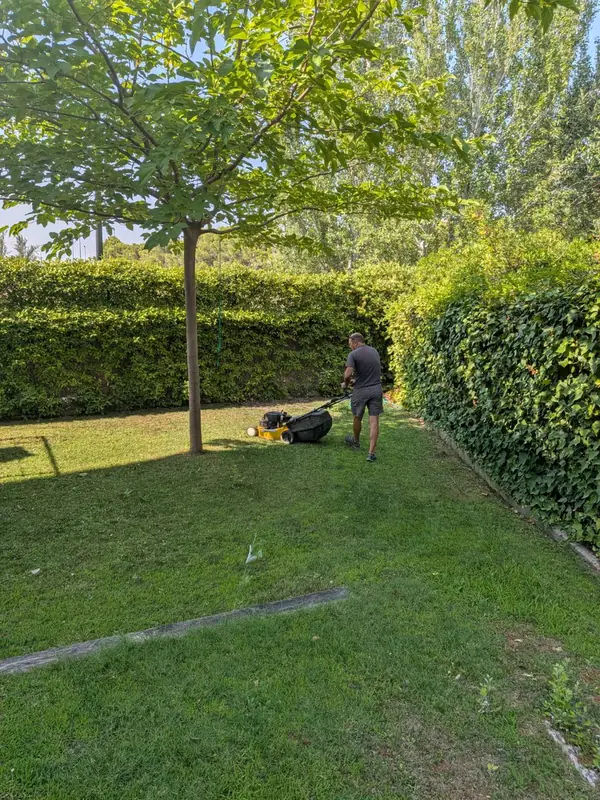
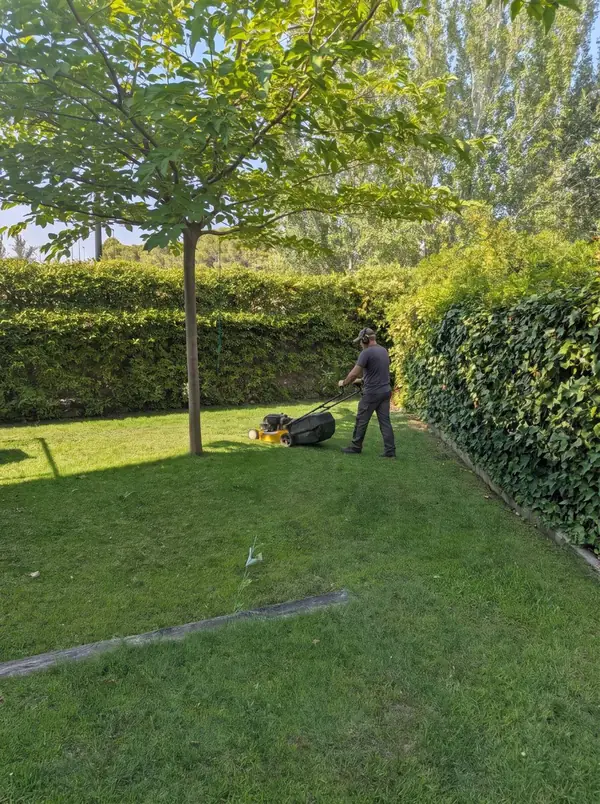
Fotos definitivas de Jorge y menos fotos por página
- Las imágenes de Canva se cambian por las que ha traído Jorge: siega del
  césped (portada), jardín junto al chalet, poda en altura con cuerdas,
  motosierra sobre el tocón y saca con restos de poda. El tractor se queda.
- Una sola foto por página de servicio, grande y arriba (dos en jardines:
  el jardín y la saca de restos). Fuera las fotos de grietas, heridas y
  restos de desbroce.
- De 10 fotos se pasa a 6.

diff --git a/servicios/mantenimiento-de-jardines.html b/servicios/mantenimiento-de-jardines.html
@@ -193,14 +193,14 @@
 
   <section class="section">
     <div class="container prosa">
-      <h2>Qué incluye</h2><ul class='lista-check'><li>Siega y perfilado del césped.</li><li>Recorte de setos y arbustos.</li><li>Poda ligera de árboles pequeños y frutales.</li><li>Revisión y ajuste del riego automático, y arreglo de goteros y aspersores.</li><li>Limpieza de hojas, malas hierbas y restos, que nos llevamos.</li></ul><h2>Visitas periódicas o trabajos sueltos</h2><p>Puede contratar visitas cada semana, cada quince días o cada mes, según el tamaño del jardín y la época del año. También hacemos trabajos sueltos: una limpieza a fondo antes del verano, poner el jardín a punto antes de una celebración o cambiar una zona de césped por plantas que necesiten menos agua.</p><h2>Plantación y reforma</h2><p>Plantamos árboles, arbustos y césped nuevo, y rehacemos zonas del jardín pensando en el clima de Zaragoza: verano seco, cierzo y heladas. Le aconsejamos especies que aguanten bien y gasten poca agua.</p>
-      <div class="galeria"><figure class="foto">
-          <a href="../img/fotos/siega-cesped-jardin.webp"><img src="../img/fotos/siega-cesped-jardin.webp" srcset="../img/fotos/siega-cesped-jardin-600.webp 600w, ../img/fotos/siega-cesped-jardin.webp 900w" sizes="(max-width: 560px) 100vw, 360px" alt="Siega del césped en un jardín con setos altos y un árbol de sombra" width="900" height="1200" loading="lazy" decoding="async"></a>
-          <figcaption>Siega del césped.</figcaption>
+      <div class="galeria galeria-2"><figure class="foto">
+          <a href="../img/fotos/jardin-chalet.webp"><img src="../img/fotos/jardin-chalet.webp" srcset="../img/fotos/jardin-chalet-600.webp 600w, ../img/fotos/jardin-chalet.webp 1200w" sizes="(max-width: 560px) 100vw, 380px" alt="Jardín de un chalet con el césped cuidado, un seto alto y un parterre de flores junto a la casa" width="1200" height="896" decoding="async"></a>
+          <figcaption>Césped cuidado y parterre de flores.</figcaption>
         </figure><figure class="foto">
-          <a href="../img/fotos/jardin-chalet.webp"><img src="../img/fotos/jardin-chalet.webp" srcset="../img/fotos/jardin-chalet-600.webp 600w, ../img/fotos/jardin-chalet.webp 1200w" sizes="(max-width: 560px) 100vw, 360px" alt="Jardín de un chalet con el césped recién segado, un seto alto recortado y cipreses al fondo" width="1200" height="927" loading="lazy" decoding="async"></a>
-          <figcaption>Césped segado y seto recortado.</figcaption>
+          <a href="../img/fotos/restos-de-poda-saca.webp"><img src="../img/fotos/restos-de-poda-saca.webp" srcset="../img/fotos/restos-de-poda-saca-600.webp 600w, ../img/fotos/restos-de-poda-saca.webp 1200w" sizes="(max-width: 560px) 100vw, 380px" alt="Saca llena de ramas y restos de poda en un jardín" width="1200" height="670" decoding="async"></a>
+          <figcaption>Nos llevamos los restos.</figcaption>
         </figure></div>
+      <h2>Qué incluye</h2><ul class='lista-check'><li>Siega y perfilado del césped.</li><li>Recorte de setos y arbustos.</li><li>Poda ligera de árboles pequeños y frutales.</li><li>Revisión y ajuste del riego automático, y arreglo de goteros y aspersores.</li><li>Limpieza de hojas, malas hierbas y restos, que nos llevamos.</li></ul><h2>Visitas periódicas o trabajos sueltos</h2><p>Puede contratar visitas cada semana, cada quince días o cada mes, según el tamaño del jardín y la época del año. También hacemos trabajos sueltos: una limpieza a fondo antes del verano, poner el jardín a punto antes de una celebración o cambiar una zona de césped por plantas que necesiten menos agua.</p><h2>Plantación y reforma</h2><p>Plantamos árboles, arbustos y césped nuevo, y rehacemos zonas del jardín pensando en el clima de Zaragoza: verano seco, cierzo y heladas. Le aconsejamos especies que aguanten bien y gasten poca agua.</p>
       <h2>Preguntas frecuentes</h2>
       <div class="faq"><details><summary>¿Cada cuánto conviene la visita?</summary><p>En primavera y verano el césped crece rápido y suele hacer falta una visita cada una o dos semanas. En otoño e invierno basta con una al mes.</p></details><details><summary>¿Se llevan los restos?</summary><p>Sí. Al terminar recogemos hojas, ramas y césped cortado y nos los llevamos.</p></details><details><summary>¿Trabajan para comunidades de vecinos?</summary><p>Sí, tanto para chalets particulares como para zonas verdes de comunidades y urbanizaciones.</p></details></div>
       <h2>Otros servicios</h2>

diff --git a/servicios/poda-de-arboles.html b/servicios/poda-de-arboles.html
@@ -193,17 +193,11 @@
 
   <section class="section">
     <div class="container prosa">
-      <h2>Tipos de poda</h2><ul class='lista-check'><li><strong>De formación</strong>, en árboles jóvenes, para que crezcan con una buena estructura.</li><li><strong>De limpieza</strong>: ramas secas, rotas o enfermas.</li><li><strong>De seguridad</strong>: ramas que tocan el tejado, la fachada o los cables, o que pueden caer.</li><li><strong>En altura</strong>, con técnica de trepa cuando no llega una plataforma.</li></ul><h2>Antes de podar, miramos el árbol</h2><p>Muchos problemas no se ven a simple vista: grietas en la base, pudriciones dentro del tronco o heridas que sueltan resina. Revisamos el árbol y le decimos si basta con una poda o si conviene hacer algo más. Podar de más debilita el árbol, así que cortamos solo lo necesario.</p><h2>Pinos y árboles protegidos</h2><p>En algunos municipios hace falta permiso para podar o talar ciertos árboles. Si es su caso, lo tramitamos nosotros.</p>
-      <div class="galeria"><figure class="foto">
-          <a href="../img/fotos/corte-de-poda.webp"><img src="../img/fotos/corte-de-poda.webp" srcset="../img/fotos/corte-de-poda-600.webp 600w, ../img/fotos/corte-de-poda.webp 1200w" sizes="(max-width: 560px) 100vw, 360px" alt="Corte de poda limpio en un plátano de sombra" width="1200" height="849" loading="lazy" decoding="async"></a>
-          <figcaption>Corte de poda limpio.</figcaption>
-        </figure><figure class="foto">
-          <a href="../img/fotos/arbol-exudado.webp"><img src="../img/fotos/arbol-exudado.webp" srcset="../img/fotos/arbol-exudado-600.webp 600w, ../img/fotos/arbol-exudado.webp 1097w" sizes="(max-width: 560px) 100vw, 360px" alt="Tronco con una herida que suelta resina" width="1097" height="1200" loading="lazy" decoding="async"></a>
-          <figcaption>Herida en el tronco que suelta resina.</figcaption>
-        </figure><figure class="foto">
-          <a href="../img/fotos/arbol-grieta-base.webp"><img src="../img/fotos/arbol-grieta-base.webp" srcset="../img/fotos/arbol-grieta-base-600.webp 600w, ../img/fotos/arbol-grieta-base.webp 1200w" sizes="(max-width: 560px) 100vw, 360px" alt="Grieta en la base del tronco de un árbol sobre césped" width="1200" height="675" loading="lazy" decoding="async"></a>
-          <figcaption>Grieta en la base del tronco.</figcaption>
+      <div class="galeria galeria-1"><figure class="foto">
+          <a href="../img/fotos/poda-en-altura-cuerdas.webp"><img src="../img/fotos/poda-en-altura-cuerdas.webp" srcset="../img/fotos/poda-en-altura-cuerdas-600.webp 600w, ../img/fotos/poda-en-altura-cuerdas.webp 1200w" sizes="(max-width: 800px) 100vw, 760px" alt="Rama con cortes de poda limpios, cuerdas de trepa y una motosierra de poda colgada" width="1200" height="670" decoding="async"></a>
+          <figcaption>Poda en altura, con cuerdas.</figcaption>
         </figure></div>
+      <h2>Tipos de poda</h2><ul class='lista-check'><li><strong>De formación</strong>, en árboles jóvenes, para que crezcan con una buena estructura.</li><li><strong>De limpieza</strong>: ramas secas, rotas o enfermas.</li><li><strong>De seguridad</strong>: ramas que tocan el tejado, la fachada o los cables, o que pueden caer.</li><li><strong>En altura</strong>, con técnica de trepa cuando no llega una plataforma.</li></ul><h2>Antes de podar, miramos el árbol</h2><p>Muchos problemas no se ven a simple vista: grietas en la base, pudriciones dentro del tronco o heridas que sueltan resina. Revisamos el árbol y le decimos si basta con una poda o si conviene hacer algo más. Podar de más debilita el árbol, así que cortamos solo lo necesario.</p><h2>Pinos y árboles protegidos</h2><p>En algunos municipios hace falta permiso para podar o talar ciertos árboles. Si es su caso, lo tramitamos nosotros.</p>
       <h2>Preguntas frecuentes</h2>
       <div class="faq"><details><summary>¿Cuándo es mejor podar?</summary><p>La mayoría de árboles se podan mejor en invierno, con la savia parada. Las ramas peligrosas o secas se pueden quitar en cualquier época.</p></details><details><summary>¿Un árbol inclinado es peligroso?</summary><p>No siempre. Depende de si la inclinación es antigua, de cómo está la base y de si el suelo se ha levantado. Lo mejor es que lo veamos.</p></details><details><summary>¿Se llevan las ramas?</summary><p>Sí. Troceamos y retiramos todos los restos, o los dejamos triturados si los quiere para el jardín.</p></details></div>
       <h2>Otros servicios</h2>

diff --git a/servicios/desbroce-y-prevencion-de-incendios.html b/servicios/desbroce-y-prevencion-de-incendios.html
@@ -193,17 +193,11 @@
 
   <section class="section">
     <div class="container prosa">
-      <h2>Por qué desbrozar</h2><p>La hierba seca y el matorral arden con mucha facilidad en verano. Muchos ayuntamientos obligan a tener las parcelas limpias y pueden multar si no lo están. En las urbanizaciones junto al monte, una franja limpia alrededor de las casas es la mejor protección frente a un incendio.</p><h2>Qué hacemos</h2><ul class='lista-check'><li>Desbroce de hierba y matorral, a mano o con la máquina que pida el terreno.</li><li>Poda de las ramas bajas de los árboles, para que el fuego no suba a las copas.</li><li>Franjas de protección alrededor de casas y vallas.</li><li>Retirada o triturado de todos los restos.</li></ul><h2>Cuándo hacerlo</h2><p>Lo mejor es desbrozar a finales de primavera, cuando la hierba ya ha crecido y antes de que se seque. En fincas grandes conviene repasar a finales de verano.</p>
-      <div class="galeria"><figure class="foto">
-          <a href="../img/fotos/desbroce-tractor.webp"><img src="../img/fotos/desbroce-tractor.webp" srcset="../img/fotos/desbroce-tractor-600.webp 600w, ../img/fotos/desbroce-tractor.webp 1200w" sizes="(max-width: 560px) 100vw, 360px" alt="Tractor con desbrozadora limpiando el matorral junto a unas encinas" width="1200" height="674" loading="lazy" decoding="async"></a>
+      <div class="galeria galeria-1"><figure class="foto">
+          <a href="../img/fotos/desbroce-tractor.webp"><img src="../img/fotos/desbroce-tractor.webp" srcset="../img/fotos/desbroce-tractor-600.webp 600w, ../img/fotos/desbroce-tractor.webp 1200w" sizes="(max-width: 800px) 100vw, 760px" alt="Tractor con desbrozadora limpiando el matorral junto a unas encinas" width="1200" height="674" decoding="async"></a>
           <figcaption>Desbroce con tractor y desbrozadora.</figcaption>
-        </figure><figure class="foto">
-          <a href="../img/fotos/desbroce-pinar.webp"><img src="../img/fotos/desbroce-pinar.webp" srcset="../img/fotos/desbroce-pinar-600.webp 600w, ../img/fotos/desbroce-pinar.webp 1200w" sizes="(max-width: 560px) 100vw, 360px" alt="Pinar con el matorral desbrozado y los restos amontonados" width="1200" height="674" loading="lazy" decoding="async"></a>
-          <figcaption>Pinar con el matorral desbrozado.</figcaption>
-        </figure><figure class="foto">
-          <a href="../img/fotos/desbroce-restos.webp"><img src="../img/fotos/desbroce-restos.webp" srcset="../img/fotos/desbroce-restos-600.webp 600w, ../img/fotos/desbroce-restos.webp 1200w" sizes="(max-width: 560px) 100vw, 360px" alt="Terreno desbrozado con restos de ramas" width="1200" height="674" loading="lazy" decoding="async"></a>
-          <figcaption>Zona desbrozada, antes de retirar los restos.</figcaption>
         </figure></div>
+      <h2>Por qué desbrozar</h2><p>La hierba seca y el matorral arden con mucha facilidad en verano. Muchos ayuntamientos obligan a tener las parcelas limpias y pueden multar si no lo están. En las urbanizaciones junto al monte, una franja limpia alrededor de las casas es la mejor protección frente a un incendio.</p><h2>Qué hacemos</h2><ul class='lista-check'><li>Desbroce de hierba y matorral, a mano o con la máquina que pida el terreno.</li><li>Poda de las ramas bajas de los árboles, para que el fuego no suba a las copas.</li><li>Franjas de protección alrededor de casas y vallas.</li><li>Retirada o triturado de todos los restos.</li></ul><h2>Cuándo hacerlo</h2><p>Lo mejor es desbrozar a finales de primavera, cuando la hierba ya ha crecido y antes de que se seque. En fincas grandes conviene repasar a finales de verano.</p>
       <h2>Preguntas frecuentes</h2>
       <div class="faq"><details><summary>¿Me pueden multar si no desbrozo?</summary><p>Sí. Muchas ordenanzas municipales obligan a mantener limpios los solares y parcelas, sobre todo en verano.</p></details><details><summary>¿Queman los restos?</summary><p>No. Los retiramos o los trituramos y los dejamos en el terreno, que protege el suelo.</p></details><details><summary>¿Trabajan en fincas grandes?</summary><p>Sí. Díganos la superficie y le preparamos el presupuesto; en los bordes y junto a los árboles siempre se repasa a mano.</p></details></div>
       <h2>Otros servicios</h2>

diff --git a/index.html b/index.html
@@ -252,7 +252,7 @@
           <a class="btn btn-ghost" href="tel:+34624757421">Llamar: 624 75 74 21</a>
         </div>
       </div>
-      <img class="hero-image" src="img/fotos/siega-cesped-jardin.webp" srcset="img/fotos/siega-cesped-jardin-600.webp 600w, img/fotos/siega-cesped-jardin.webp 900w" sizes="(max-width: 900px) 100vw, 480px" alt="Siega del césped en un jardín con setos altos y un árbol de sombra" width="900" height="1200" fetchpriority="high">
+      <img class="hero-image" src="img/fotos/siega-cesped-jardin.webp" srcset="img/fotos/siega-cesped-jardin-600.webp 600w, img/fotos/siega-cesped-jardin.webp 896w" sizes="(max-width: 900px) 100vw, 480px" alt="Jardinero segando el césped de un jardín con setos altos y un árbol de sombra" width="896" height="1200" fetchpriority="high">
     </div>
   </section>
 
@@ -269,7 +269,7 @@
       <p class="section-sub">De forma periódica o para un trabajo puntual.</p>
       <div class="cards cards-4">
           <a class="card card-link" href="servicios/mantenimiento-de-jardines.html">
-            <img class="card-img" src="img/fotos/jardin-chalet.webp" srcset="img/fotos/jardin-chalet-600.webp 600w, img/fotos/jardin-chalet.webp 1200w" sizes="(max-width: 560px) 100vw, (max-width: 980px) 50vw, 280px" alt="Jardín de un chalet con el césped recién segado, un seto alto recortado y cipreses al fondo" width="1200" height="927" loading="lazy" decoding="async">
+            <img class="card-img" src="img/fotos/jardin-chalet.webp" srcset="img/fotos/jardin-chalet-600.webp 600w, img/fotos/jardin-chalet.webp 1200w" sizes="(max-width: 560px) 100vw, (max-width: 980px) 50vw, 280px" alt="Jardín de un chalet con el césped cuidado, un seto alto y un parterre de flores junto a la casa" width="1200" height="896" loading="lazy" decoding="async">
             <div class="card-body">
               <h3>Mantenimiento de jardines</h3>
               <p>Siega, setos, riego y limpieza con visitas programadas. También plantación y reforma de zonas del jardín.</p>
@@ -277,7 +277,7 @@
             </div>
           </a>
           <a class="card card-link" href="servicios/poda-de-arboles.html">
-            <img class="card-img" src="img/fotos/corte-de-poda.webp" srcset="img/fotos/corte-de-poda-600.webp 600w, img/fotos/corte-de-poda.webp 1200w" sizes="(max-width: 560px) 100vw, (max-width: 980px) 50vw, 280px" alt="Corte de poda limpio en un plátano de sombra" width="1200" height="849" loading="lazy" decoding="async">
+            <img class="card-img" src="img/fotos/poda-en-altura-cuerdas.webp" srcset="img/fotos/poda-en-altura-cuerdas-600.webp 600w, img/fotos/poda-en-altura-cuerdas.webp 1200w" sizes="(max-width: 560px) 100vw, (max-width: 980px) 50vw, 280px" alt="Rama con cortes de poda limpios, cuerdas de trepa y una motosierra de poda colgada" width="1200" height="670" loading="lazy" decoding="async">
             <div class="card-body">
               <h3>Poda y arboricultura</h3>
               <p>Poda de formación, de limpieza y en altura. Revisamos si el árbol tiene grietas, pudriciones o ramas con riesgo.</p>
@@ -285,7 +285,7 @@
             </div>
           </a>
           <a class="card card-link" href="servicios/tala-y-destoconado.html">
-            <img class="card-img" src="img/fotos/motosierra-corte-tronco.webp" srcset="img/fotos/motosierra-corte-tronco-600.webp 600w, img/fotos/motosierra-corte-tronco.webp 1200w" sizes="(max-width: 560px) 100vw, (max-width: 980px) 50vw, 280px" alt="Motosierra cortando el tronco de un árbol" width="1200" height="927" loading="lazy" decoding="async">
+            <img class="card-img" src="img/fotos/tala-tocon-motosierra.webp" srcset="img/fotos/tala-tocon-motosierra-600.webp 600w, img/fotos/tala-tocon-motosierra.webp 1200w" sizes="(max-width: 560px) 100vw, (max-width: 980px) 50vw, 280px" alt="Motosierra apoyada en el tocón de un árbol recién talado en un jardín" width="1200" height="670" loading="lazy" decoding="async">
             <div class="card-body">
               <h3>Tala y destoconado</h3>
               <p>Tala controlada de árboles junto a casas, muros o cables, y retirada del tocón para recuperar el espacio.</p>

diff --git a/servicios/tala-y-destoconado.html b/servicios/tala-y-destoconado.html
@@ -193,14 +193,11 @@
 
   <section class="section">
     <div class="container prosa">
-      <h2>Tala controlada</h2><p>Cuando no hay espacio para que el árbol caiga entero, lo desmontamos por trozos desde arriba y los bajamos con cuerdas. Así no se daña nada alrededor. Si hace falta cortar la calle o pedir permiso al ayuntamiento, nos ocupamos nosotros.</p><h2>Destoconado</h2><p>El tocón que queda después de una tala estorba, vuelve a echar brotes y puede levantar el suelo. Lo quitamos con una destoconadora, que lo tritura por debajo del nivel del suelo, y dejamos el hueco listo para plantar, poner césped o pavimentar.</p><h2>Qué nos llevamos</h2><p>Tronco, ramas, serrín y restos del tocón. Si quiere quedarse la leña, se la dejamos cortada.</p>
-      <div class="galeria"><figure class="foto">
-          <a href="../img/fotos/motosierra-corte-tronco.webp"><img src="../img/fotos/motosierra-corte-tronco.webp" srcset="../img/fotos/motosierra-corte-tronco-600.webp 600w, ../img/fotos/motosierra-corte-tronco.webp 1200w" sizes="(max-width: 560px) 100vw, 360px" alt="Motosierra cortando el tronco de un árbol" width="1200" height="927" loading="lazy" decoding="async"></a>
-          <figcaption>Corte del tronco con motosierra.</figcaption>
-        </figure><figure class="foto">
-          <a href="../img/fotos/tocon-recien-cortado.webp"><img src="../img/fotos/tocon-recien-cortado.webp" srcset="../img/fotos/tocon-recien-cortado-600.webp 600w, ../img/fotos/tocon-recien-cortado.webp 1200w" sizes="(max-width: 560px) 100vw, 360px" alt="Tocón de un pino recién talado, con el corte limpio y serrín alrededor" width="1200" height="849" loading="lazy" decoding="async"></a>
-          <figcaption>Tocón recién cortado, antes de destoconar.</figcaption>
+      <div class="galeria galeria-1"><figure class="foto">
+          <a href="../img/fotos/tala-tocon-motosierra.webp"><img src="../img/fotos/tala-tocon-motosierra.webp" srcset="../img/fotos/tala-tocon-motosierra-600.webp 600w, ../img/fotos/tala-tocon-motosierra.webp 1200w" sizes="(max-width: 800px) 100vw, 760px" alt="Motosierra apoyada en el tocón de un árbol recién talado en un jardín" width="1200" height="670" decoding="async"></a>
+          <figcaption>Árbol talado: queda el tocón, que también quitamos.</figcaption>
         </figure></div>
+      <h2>Tala controlada</h2><p>Cuando no hay espacio para que el árbol caiga entero, lo desmontamos por trozos desde arriba y los bajamos con cuerdas. Así no se daña nada alrededor. Si hace falta cortar la calle o pedir permiso al ayuntamiento, nos ocupamos nosotros.</p><h2>Destoconado</h2><p>El tocón que queda después de una tala estorba, vuelve a echar brotes y puede levantar el suelo. Lo quitamos con una destoconadora, que lo tritura por debajo del nivel del suelo, y dejamos el hueco listo para plantar, poner césped o pavimentar.</p><h2>Qué nos llevamos</h2><p>Tronco, ramas, serrín y restos del tocón. Si quiere quedarse la leña, se la dejamos cortada.</p>
       <h2>Preguntas frecuentes</h2>
       <div class="faq"><details><summary>¿Necesito permiso para talar un árbol?</summary><p>Depende del municipio, de la especie y de si el terreno es urbano o rústico. Se lo decimos al ver el árbol y, si hace falta, lo pedimos nosotros.</p></details><details><summary>¿Qué pasa si no quito el tocón?</summary><p>Muchos árboles vuelven a brotar desde el tocón y las raíces, y con los años se pudre y atrae hongos e insectos.</p></details><details><summary>¿Se puede plantar en el mismo sitio?</summary><p>Sí. Después del destoconado rellenamos el hueco con tierra y ya se puede plantar.</p></details></div>
       <h2>Otros servicios</h2>

diff --git a/css/styles.css b/css/styles.css
@@ -433,6 +433,11 @@ a { color: var(--verde-700); }
 .prosa ul:not(.lista-check) { color: var(--texto-suave); padding-left: 1.2em; }
 .prosa .lista-check { margin-bottom: 1em; }
 .galeria { display: grid; grid-template-columns: repeat(3, 1fr); gap: 14px; margin: 32px 0 8px; }
+.prosa > .galeria:first-child { margin-top: 0; }
+.galeria-1 { grid-template-columns: 1fr; }
+.galeria-1 .foto img { height: auto; max-height: 430px; }
+.galeria-2 { grid-template-columns: repeat(2, 1fr); }
+.galeria-2 .foto img { height: 250px; }
 .foto { margin: 0; }
 .foto a { display: block; }
 .foto img { width: 100%; height: 220px; object-fit: cover; border-radius: 10px; display: block; }

diff --git a/herramientas/generar_paginas.py b/herramientas/generar_paginas.py
@@ -143,20 +143,26 @@ def pie(raiz):
 </html>
 """
 
-def imagen(raiz, nombre, alt, tamanos, clase="", primera=False):
+def imagen(raiz, nombre, alt, tamanos, clase="", primera=False, arriba=False):
     """Foto en dos tamaños (600 px y la grande), para que el móvil baje la pequeña."""
     ancho, alto = MEDIDAS[nombre]
     base = f"{raiz}img/fotos/{nombre}"
-    carga = ' fetchpriority="high"' if primera else ' loading="lazy" decoding="async"'
+    # primera: la foto principal de la portada. arriba: fotos que se ven casi al abrir la página (no se retrasan).
+    carga = ' fetchpriority="high"' if primera else (' decoding="async"' if arriba else ' loading="lazy" decoding="async"')
     return (f'<img{f" class={chr(34)}{clase}{chr(34)}" if clase else ""} src="{base}.webp" '
             f'srcset="{base}-600.webp 600w, {base}.webp {ancho}w" sizes="{tamanos}" '
             f'alt="{html.escape(alt)}" width="{ancho}" height="{alto}"{carga}>')
 
-def foto(raiz, nombre, alt, pie_foto):
-    return f"""<figure class="foto">
-          <a href="{raiz}img/fotos/{nombre}.webp">{imagen(raiz, nombre, alt, "(max-width: 560px) 100vw, 360px")}</a>
+def galeria(raiz, fotos):
+    """Fotos de una página de servicio, como (nombre, texto alternativo, pie). Pocas: una, o dos como mucho."""
+    if not fotos:
+        return ""
+    tamanos = "(max-width: 800px) 100vw, 760px" if len(fotos) == 1 else "(max-width: 560px) 100vw, 380px"
+    figuras = "".join(f"""<figure class="foto">
+          <a href="{raiz}img/fotos/{n}.webp">{imagen(raiz, n, alt, tamanos, arriba=True)}</a>
           <figcaption>{pie_foto}</figcaption>
-        </figure>"""
+        </figure>""" for n, alt, pie_foto in fotos)
+    return f'<div class="galeria galeria-{len(fotos)}">{figuras}</div>'
 
 # ---------- Datos para buscadores y asistentes de IA (schema.org) ----------
 NEGOCIO_ID = DOM + "/#negocio"
@@ -230,7 +236,7 @@ portada = cabecera("Jardinería, poda y tala en Zaragoza | " + MARCA,
           <a class="btn btn-ghost" href="tel:{TEL}">Llamar: {TEL_TXT}</a>
         </div>
       </div>
-      {imagen("", "siega-cesped-jardin", "Siega del césped en un jardín con setos altos y un árbol de sombra", "(max-width: 900px) 100vw, 480px", "hero-image", primera=True)}
+      {imagen("", "siega-cesped-jardin", "Jardinero segando el césped de un jardín con setos altos y un árbol de sombra", "(max-width: 900px) 100vw, 480px", "hero-image", primera=True)}
     </div>
   </section>
 
@@ -246,9 +252,9 @@ portada = cabecera("Jardinería, poda y tala en Zaragoza | " + MARCA,
       <h2>Servicios</h2>
       <p class="section-sub">De forma periódica o para un trabajo puntual.</p>
       <div class="cards cards-4">
-          {tarjeta(SERVICIOS[0][0], SERVICIOS[0][1], "Siega, setos, riego y limpieza con visitas programadas. También plantación y reforma de zonas del jardín.", "jardin-chalet", "Jardín de un chalet con el césped recién segado, un seto alto recortado y cipreses al fondo")}
-          {tarjeta(SERVICIOS[1][0], SERVICIOS[1][1], "Poda de formación, de limpieza y en altura. Revisamos si el árbol tiene grietas, pudriciones o ramas con riesgo.", "corte-de-poda", "Corte de poda limpio en un plátano de sombra")}
-          {tarjeta(SERVICIOS[2][0], SERVICIOS[2][1], "Tala controlada de árboles junto a casas, muros o cables, y retirada del tocón para recuperar el espacio.", "motosierra-corte-tronco", "Motosierra cortando el tronco de un árbol")}
+          {tarjeta(SERVICIOS[0][0], SERVICIOS[0][1], "Siega, setos, riego y limpieza con visitas programadas. También plantación y reforma de zonas del jardín.", "jardin-chalet", "Jardín de un chalet con el césped cuidado, un seto alto y un parterre de flores junto a la casa")}
+          {tarjeta(SERVICIOS[1][0], SERVICIOS[1][1], "Poda de formación, de limpieza y en altura. Revisamos si el árbol tiene grietas, pudriciones o ramas con riesgo.", "poda-en-altura-cuerdas", "Rama con cortes de poda limpios, cuerdas de trepa y una motosierra de poda colgada")}
+          {tarjeta(SERVICIOS[2][0], SERVICIOS[2][1], "Tala controlada de árboles junto a casas, muros o cables, y retirada del tocón para recuperar el espacio.", "tala-tocon-motosierra", "Motosierra apoyada en el tocón de un árbol recién talado en un jardín")}
           {tarjeta(SERVICIOS[3][0], SERVICIOS[3][1], "Desbroce de parcelas y fincas para cumplir la normativa y reducir el riesgo de incendio.", "desbroce-tractor", "Tractor con desbrozadora limpiando el matorral junto a unas encinas")}
       </div>
     </div>
@@ -312,7 +318,7 @@ portada = cabecera("Jardinería, poda y tala en Zaragoza | " + MARCA,
 (OUT / "index.html").write_text(portada, encoding="utf-8")
 
 # ---------- Páginas de servicio ----------
-def pagina_servicio(slug, titulo_seo, desc, h1, intro, bloques, fotos_html, faq):
+def pagina_servicio(slug, titulo_seo, desc, h1, intro, bloques, fotos, faq):
     raiz = "../"
     url = f"{DOM}/servicios/{slug}.html"
     nombre = dict(SERVICIOS)[slug]
@@ -340,8 +346,8 @@ def pagina_servicio(slug, titulo_seo, desc, h1, intro, bloques, fotos_html, faq)
 
   <section class="section">
     <div class="container prosa">
+      {galeria(raiz, fotos)}
       {cuerpo}
-      {('<div class="galeria">' + fotos_html + '</div>') if fotos_html else ''}
       <h2>Preguntas frecuentes</h2>
       <div class="faq">{faq_html(faq)}</div>
       <h2>Otros servicios</h2>
@@ -361,8 +367,8 @@ paginas = {
     [("Qué incluye", "<ul class='lista-check'><li>Siega y perfilado del césped.</li><li>Recorte de setos y arbustos.</li><li>Poda ligera de árboles pequeños y frutales.</li><li>Revisión y ajuste del riego automático, y arreglo de goteros y aspersores.</li><li>Limpieza de hojas, malas hierbas y restos, que nos llevamos.</li></ul>"),
      ("Visitas periódicas o trabajos sueltos", "<p>Puede contratar visitas cada semana, cada quince días o cada mes, según el tamaño del jardín y la época del año. También hacemos trabajos sueltos: una limpieza a fondo antes del verano, poner el jardín a punto antes de una celebración o cambiar una zona de césped por plantas que necesiten menos agua.</p>"),
      ("Plantación y reforma", "<p>Plantamos árboles, arbustos y césped nuevo, y rehacemos zonas del jardín pensando en el clima de Zaragoza: verano seco, cierzo y heladas. Le aconsejamos especies que aguanten bien y gasten poca agua.</p>")],
-    foto(r, "siega-cesped-jardin", "Siega del césped en un jardín con setos altos y un árbol de sombra", "Siega del césped.") +
-    foto(r, "jardin-chalet", "Jardín de un chalet con el césped recién segado, un seto alto recortado y cipreses al fondo", "Césped segado y seto recortado."),
+    [("jardin-chalet", "Jardín de un chalet con el césped cuidado, un seto alto y un parterre de flores junto a la casa", "Césped cuidado y parterre de flores."),
+     ("restos-de-poda-saca", "Saca llena de ramas y restos de poda en un jardín", "Nos llevamos los restos.")],
     [("¿Cada cuánto conviene la visita?", "En primavera y verano el césped crece rápido y suele hacer falta una visita cada una o dos semanas. En otoño e invierno basta con una al mes."),
      ("¿Se llevan los restos?", "Sí. Al terminar recogemos hojas, ramas y césped cortado y nos los llevamos."),
      ("¿Trabajan para comunidades de vecinos?", "Sí, tanto para chalets particulares como para zonas verdes de comunidades y urbanizaciones.")]),
@@ -374,9 +380,7 @@ paginas = {
     [("Tipos de poda", "<ul class='lista-check'><li><strong>De formación</strong>, en árboles jóvenes, para que crezcan con una buena estructura.</li><li><strong>De limpieza</strong>: ramas secas, rotas o enfermas.</li><li><strong>De seguridad</strong>: ramas que tocan el tejado, la fachada o los cables, o que pueden caer.</li><li><strong>En altura</strong>, con técnica de trepa cuando no llega una plataforma.</li></ul>"),
      ("Antes de podar, miramos el árbol", "<p>Muchos problemas no se ven a simple vista: grietas en la base, pudriciones dentro del tronco o heridas que sueltan resina. Revisamos el árbol y le decimos si basta con una poda o si conviene hacer algo más. Podar de más debilita el árbol, así que cortamos solo lo necesario.</p>"),
      ("Pinos y árboles protegidos", "<p>En algunos municipios hace falta permiso para podar o talar ciertos árboles. Si es su caso, lo tramitamos nosotros.</p>")],
-    foto(r, "corte-de-poda", "Corte de poda limpio en un plátano de sombra", "Corte de poda limpio.") +
-    foto(r, "arbol-exudado", "Tronco con una herida que suelta resina", "Herida en el tronco que suelta resina.") +
-    foto(r, "arbol-grieta-base", "Grieta en la base del tronco de un árbol sobre césped", "Grieta en la base del tronco."),
+    [("poda-en-altura-cuerdas", "Rama con cortes de poda limpios, cuerdas de trepa y una motosierra de poda colgada", "Poda en altura, con cuerdas.")],
     [("¿Cuándo es mejor podar?", "La mayoría de árboles se podan mejor en invierno, con la savia parada. Las ramas peligrosas o secas se pueden quitar en cualquier época."),
      ("¿Un árbol inclinado es peligroso?", "No siempre. Depende de si la inclinación es antigua, de cómo está la base y de si el suelo se ha levantado. Lo mejor es que lo veamos."),
      ("¿Se llevan las ramas?", "Sí. Troceamos y retiramos todos los restos, o los dejamos triturados si los quiere para el jardín.")]),
@@ -388,8 +392,7 @@ paginas = {
     [("Tala controlada", "<p>Cuando no hay espacio para que el árbol caiga entero, lo desmontamos por trozos desde arriba y los bajamos con cuerdas. Así no se daña nada alrededor. Si hace falta cortar la calle o pedir permiso al ayuntamiento, nos ocupamos nosotros.</p>"),
      ("Destoconado", "<p>El tocón que queda después de una tala estorba, vuelve a echar brotes y puede levantar el suelo. Lo quitamos con una destoconadora, que lo tritura por debajo del nivel del suelo, y dejamos el hueco listo para plantar, poner césped o pavimentar.</p>"),
      ("Qué nos llevamos", "<p>Tronco, ramas, serrín y restos del tocón. Si quiere quedarse la leña, se la dejamos cortada.</p>")],
-    foto(r, "motosierra-corte-tronco", "Motosierra cortando el tronco de un árbol", "Corte del tronco con motosierra.") +
-    foto(r, "tocon-recien-cortado", "Tocón de un pino recién talado, con el corte limpio y serrín alrededor", "Tocón recién cortado, antes de destoconar."),
+    [("tala-tocon-motosierra", "Motosierra apoyada en el tocón de un árbol recién talado en un jardín", "Árbol talado: queda el tocón, que también quitamos.")],
     [("¿Necesito permiso para talar un árbol?", "Depende del municipio, de la especie y de si el terreno es urbano o rústico. Se lo decimos al ver el árbol y, si hace falta, lo pedimos nosotros."),
      ("¿Qué pasa si no quito el tocón?", "Muchos árboles vuelven a brotar desde el tocón y las raíces, y con los años se pudre y atrae hongos e insectos."),
      ("¿Se puede plantar en el mismo sitio?", "Sí. Después del destoconado rellenamos el hueco con tierra y ya se puede plantar.")]),
@@ -401,9 +404,7 @@ paginas = {
     [("Por qué desbrozar", "<p>La hierba seca y el matorral arden con mucha facilidad en verano. Muchos ayuntamientos obligan a tener las parcelas limpias y pueden multar si no lo están. En las urbanizaciones junto al monte, una franja limpia alrededor de las casas es la mejor protección frente a un incendio.</p>"),
      ("Qué hacemos", "<ul class='lista-check'><li>Desbroce de hierba y matorral, a mano o con la máquina que pida el terreno.</li><li>Poda de las ramas bajas de los árboles, para que el fuego no suba a las copas.</li><li>Franjas de protección alrededor de casas y vallas.</li><li>Retirada o triturado de todos los restos.</li></ul>"),
      ("Cuándo hacerlo", "<p>Lo mejor es desbrozar a finales de primavera, cuando la hierba ya ha crecido y antes de que se seque. En fincas grandes conviene repasar a finales de verano.</p>")],
-    foto(r, "desbroce-tractor", "Tractor con desbrozadora limpiando el matorral junto a unas encinas", "Desbroce con tractor y desbrozadora.") +
-    foto(r, "desbroce-pinar", "Pinar con el matorral desbrozado y los restos amontonados", "Pinar con el matorral desbrozado.") +
-    foto(r, "desbroce-restos", "Terreno desbrozado con restos de ramas", "Zona desbrozada, antes de retirar los restos."),
+    [("desbroce-tractor", "Tractor con desbrozadora limpiando el matorral junto a unas encinas", "Desbroce con tractor y desbrozadora.")],
     [("¿Me pueden multar si no desbrozo?", "Sí. Muchas ordenanzas municipales obligan a mantener limpios los solares y parcelas, sobre todo en verano."),
      ("¿Queman los restos?", "No. Los retiramos o los trituramos y los dejamos en el terreno, que protege el suelo."),
      ("¿Trabajan en fincas grandes?", "Sí. Díganos la superficie y le preparamos el presupuesto; en los bordes y junto a los árboles siempre se repasa a mano.")]),
